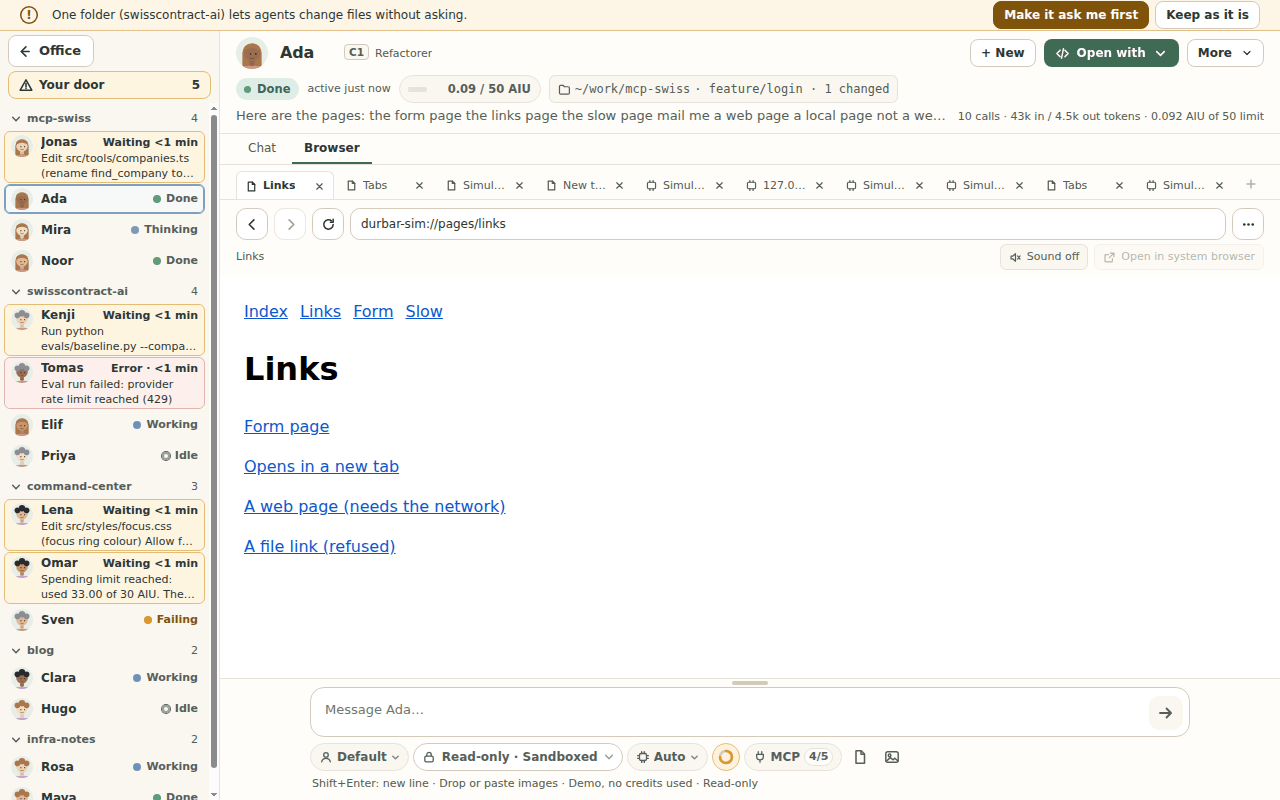
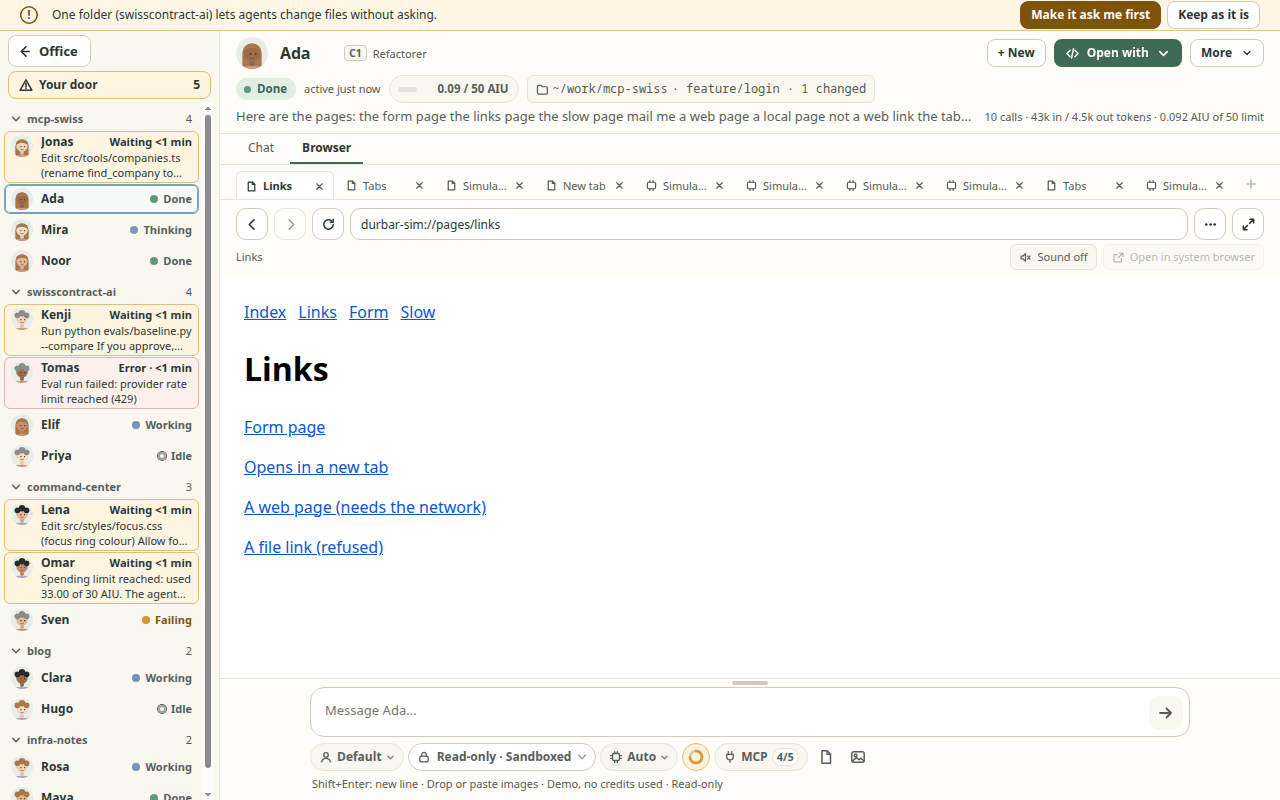
080: expand driver checks localStorage around the first click; docs pictures; tasks ticked (issue #1691)

diff --git a/scripts/check-080-browser-expand.js b/scripts/check-080-browser-expand.js
@@ -120,10 +120,15 @@ module.exports = async (ctx) => {
     await calm();
     await shot(`080-browser-expand-small-${file}.png`);
 
-    // FR-135: Expand fills the chat panel; the panel is the window's content below the notice strips
+    // FR-135: Expand fills the chat panel; the panel is the window's content below the notice strips. FR-137: around this first click
+    // nothing else runs, so any localStorage entry that appears or changes is the big state being remembered
+    const snap = () => js(`(()=>{try{return Object.keys(localStorage).sort().map(k=>k+'='+localStorage.getItem(k));}catch(e){return ['unreadable']}})()`);
+    const before = await snap();
     await js(`document.getElementById('bBig').click()`);
     await soft(async () => (await big()) && !sameRect((await geo()).view, small.view, 1));
     const g1 = await geo();
+    const added = (await snap()).filter((x) => !before.includes(x)).map((x) => x.slice(0, 120));
+    assert.deepStrictEqual(added, [], tag + ': state persisted: Expand writes nothing to localStorage');
     const bottom = g1.answerTop === null ? g1.Hh : g1.answerTop;
     assert.ok(sameRect(g1.pane, { x: g1.panel.x, y: g1.panel.y, w: g1.panel.w, h: bottom - g1.panel.y }, 1), `${tag}: expanded: the pane fills the panel: ${JSON.stringify({ pane: g1.pane, panel: g1.panel, bottom })}`);
     assert.ok(sameRect(g1.panel, { x: 0, y: g1.noticeBottom, w: g1.W, h: g1.Hh - g1.noticeBottom }, 1), `${tag}: expanded: the panel is the window's content below the notice strips: ${JSON.stringify({ panel: g1.panel, W: g1.W, H: g1.Hh, notices: g1.noticeBottom })}`);
@@ -211,12 +216,8 @@ module.exports = async (ctx) => {
     await openChat(idA);
     await toBrowser();
     assert.strictEqual(await big(), false, `${tag}: back in the first chat the browser is small`);
-    const snap = () => js(`(()=>{try{return Object.keys(localStorage).sort().map(k=>k+'='+localStorage.getItem(k));}catch(e){return ['unreadable']}})()`);
-    const before = await snap();
     await js(`document.getElementById('bBig').click()`);
     await wait(big, `${tag}: big before the reload`);
-    const added = (await snap()).filter((x) => !before.includes(x)).map((x) => x.slice(0, 120));
-    assert.deepStrictEqual(added, [], tag + ': state persisted: Expand writes nothing to localStorage');
     await H.load({ w, h, ready: WORLD === 'flat' ? 'fit' : REAL, settle: WORLD === 'flat', focus: true, query: WORLD === 'flat' ? undefined : { officeview: 'real' } });
     await openChat(idA);
     await toBrowser();

diff --git a/scripts/shots-docs.js b/scripts/shots-docs.js
@@ -80,6 +80,7 @@ const DOC_SHOTS = [
   { name: 'shots-074-navigator', files: ['074-navigator-start-1440x900.png'] },
   { name: 'check-browser-tabs', files: ['080-browser-tabs-1440x900.png'] }, // spec 080 FR-122 (US6): the page tab strip with 10 tabs
   { label: 'check-browser-tabs 1280', name: 'check-browser-tabs', env: { BROWSER_TABS_SIZE: '1280x800' }, files: ['080-browser-tabs-1280x800.png'] },
+  { name: 'check-080-browser-expand', files: ['080-browser-expand-small-flat-1440x900.png', '080-browser-expand-big-flat-1440x900.png', '080-browser-expand-small-flat-1280x800.png', '080-browser-expand-big-flat-1280x800.png'] }, // spec 080 FR-134, FR-135 (issue #1691): the browser small and expanded
   { name: 'shots-058-mcp-settings', files: ['058-mcp-settings-1440x900.png'] },
   { name: 'shots-076-orgpolicy', files: ['076-orgpolicy-mode-1440x900.png', '076-orgpolicy-server-1440x900.png', '076-orgpolicy-organization-1440x900.png'] },
   { name: 'shots-058-mcp-health', files: ['058-mcp-health-1440x900.png'] },

diff --git a/docs/features.md b/docs/features.md
@@ -33,7 +33,7 @@ Where each feature works (Flat, Real office, worlds): [feature inventory](featur
 - You see its thinking, tool calls and replies as they stream in, with Markdown and copy buttons. An open tool call shows the whole command (with Copy), how long it took and its output; a Claude Code or Codex edit request has a **Show the change** diff (a Codex request with no known file says "Codex did not say which file").
 - **File edits show up while the agent writes them:** the moment an agent starts changing a file, the chat shows "Editing app.js" with its folder and "+12 −3", and the change itself as a compact diff (12 lines, then **Show all**) that grows as the agent writes it; several files are listed one by one. The line under the chat names what runs now ("Editing app.js · 12s", or "Waiting for your OK" while a permission card waits). An edit that was refused or failed says so ("Could not edit app.js"). Secrets in a diff are masked (by the adapter, then in main with the session's MCP secret values too). Claude Code and Copilot stream the edit, so the row appears before the tool runs (checked on real sessions, Linux); Codex sends the whole change at once, so its row appears when the edit starts ([spec 005](../specs/005-chat-fullscreen-and-agent-strip/spec.md), [screenshot](screenshots/005-edit-expert-1440x900.png)).
 - Attach files and images by picking, dropping or pasting.
-- **A browser in every chat** (spec 080, issue [#556](https://github.com/three-feathers/agent-durbar/issues/556)): each chat has **Chat | Browser** tabs. The Browser tab has an address field, Back, Forward, Reload and Stop, a **Sound** toggle (sound starts off) and **Open in system browser**. Each session gets its own private, in-memory profile: cookies, storage and cache are never shared with another session and are wiped when the session ends, is removed or its folder is removed. A click on an `http` or `https` link in a chat opens it in that session's Browser tab (Ctrl+click, or ⌘+click on a Mac, and the link's right-click menu open it in your usual browser; *Settings > Open chat links in* changes the plain click). Only `http` and `https` addresses open; `file:`, `javascript:`, other schemes and addresses with a user name and password are refused with a reason. **Page tabs** (spec 080 US6, issue [#910](https://github.com/three-feathers/agent-durbar/issues/910)): each session's browser holds up to 10 tabs, in a strip above the address bar ([screenshot](screenshots/080-browser-tabs-1440x900.png), [1280x800](screenshots/080-browser-tabs-1280x800.png)); **+** or Ctrl+T (⌘T) opens one, its **x**, Ctrl+W (⌘W) or Delete in the strip closes one, Ctrl+Tab and Ctrl+Shift+Tab switch. The bar's **⋯** menu has **Open chat links in a new tab** (off by default, one setting for every session): with it on, a chat link opens in a new tab next to the one you are reading, and a link a tab already shows brings that tab to the front instead of opening it twice; the link's right-click menu has **Open in a new tab** either way. A page's own *open in a new tab* links open a tab of the same session too (only `http`/`https` from the page's own site, at most 5 per page load). The session's tabs share its private profile, so a sign-in in one tab holds in the others, and all of it is wiped when the session ends. **Expand** (spec 080 FR-134..FR-139, issue [#1691](https://github.com/three-feathers/agent-durbar/issues/1691)): the last button of the browser bar, **Expand browser**, makes the browser fill the window (the agent list, the chat header and the message box step aside; a draft stays; notices and a question of this session stay in view); the same button, now **Back to small browser**, or **Esc** makes it small again. Esc typed inside the web page stays with the page. It is not remembered: another chat, the Chat tab or a restart starts small. Linux and the simulator only so far; see Known limits.
+- **A browser in every chat** (spec 080, issue [#556](https://github.com/three-feathers/agent-durbar/issues/556)): each chat has **Chat | Browser** tabs. The Browser tab has an address field, Back, Forward, Reload and Stop, a **Sound** toggle (sound starts off) and **Open in system browser**. Each session gets its own private, in-memory profile: cookies, storage and cache are never shared with another session and are wiped when the session ends, is removed or its folder is removed. A click on an `http` or `https` link in a chat opens it in that session's Browser tab (Ctrl+click, or ⌘+click on a Mac, and the link's right-click menu open it in your usual browser; *Settings > Open chat links in* changes the plain click). Only `http` and `https` addresses open; `file:`, `javascript:`, other schemes and addresses with a user name and password are refused with a reason. **Page tabs** (spec 080 US6, issue [#910](https://github.com/three-feathers/agent-durbar/issues/910)): each session's browser holds up to 10 tabs, in a strip above the address bar ([screenshot](screenshots/080-browser-tabs-1440x900.png), [1280x800](screenshots/080-browser-tabs-1280x800.png)); **+** or Ctrl+T (⌘T) opens one, its **x**, Ctrl+W (⌘W) or Delete in the strip closes one, Ctrl+Tab and Ctrl+Shift+Tab switch. The bar's **⋯** menu has **Open chat links in a new tab** (off by default, one setting for every session): with it on, a chat link opens in a new tab next to the one you are reading, and a link a tab already shows brings that tab to the front instead of opening it twice; the link's right-click menu has **Open in a new tab** either way. A page's own *open in a new tab* links open a tab of the same session too (only `http`/`https` from the page's own site, at most 5 per page load). The session's tabs share its private profile, so a sign-in in one tab holds in the others, and all of it is wiped when the session ends. **Expand** (spec 080 FR-134..FR-139, issue [#1691](https://github.com/three-feathers/agent-durbar/issues/1691)): the last button of the browser bar, **Expand browser**, makes the browser fill the window (the agent list, the chat header and the message box step aside; a draft stays; notices and a question of this session stay in view); the same button, now **Back to small browser**, or **Esc** makes it small again. ([small](screenshots/080-browser-expand-small-flat-1440x900.png), [expanded](screenshots/080-browser-expand-big-flat-1440x900.png); at 1280x800: [small](screenshots/080-browser-expand-small-flat-1280x800.png), [expanded](screenshots/080-browser-expand-big-flat-1280x800.png)) Esc typed inside the web page stays with the page. It is not remembered: another chat, the Chat tab or a restart starts small. Linux and the simulator only so far; see Known limits.
 - Questions an agent asks you appear as a card with its choices, an "Other" answer and Skip. The whole question, every choice and its description are shown in full; Enter in the "Other" box sends your answer (Shift+Enter adds a line). While a question waits and its card is scrolled out of view, the bar above the message box shows it; a short one can be answered right there (its choices, an "Other" box and Skip), a longer one has **Show question**. Several context compactions in a row are one line that counts them ("Context compacted 4 times · last 10:21").
 - **Needs you:** one inbox of every agent waiting for you, oldest first with how long each has waited. Open it with **I**, **Ctrl+Shift+A** (also from a text box) or **Ctrl+A** when the cursor is not in a text box or the chat log (there Ctrl+A still selects all). While Durbar is in the background the window title ("(3) Agent Durbar"), the app icon and one notification tell you (Settings > Notifications turns it off; it shows only the agent's name and a short summary). In a waiting chat, **Alt+A** allows once, **Alt+S** allows for the session, **Alt+D** denies and **Alt+N** goes to the next agent (a held key answers once, never down the queue; a spending limit is answered with its buttons, never a letter key); **?** lists every shortcut.
 - **Auto-follow work** (Settings, off by default): after a message is accepted, the window returns to the office with that agent's desk marked, then opens its chat (focus on the title; it never answers or approves for you) when the agent finishes, asks, errors or reaches its limit. It waits while you type, a dialog or menu is open, or you chose another agent; a reply that comes while its chat is on screen is seen there and never opens anything later, and a new message to an agent replaces its completion still waiting. A strip under the top bar has Previous and Next (**[** and **]**) over the Needs you queue then unread replies, with "2 of 3", and Pause. Before each automatic move, a full-screen notice says where it is taking you and why ("Priya is working on this. Taking you to the office.", "Priya finished. See if it is OK. Opening its chat.") and counts down 3 seconds; **Stay here** / **Stay in the office** or **Esc** cancels the move. With reduced motion, or Motion off in Settings, nothing in it moves; the text and the number stay. It looks the same in Open office and in every Real office world. Spec 052 FR-182..FR-190 ([1440x900](screenshots/052-auto-follow-queue-1440x900.png), [1280x800](screenshots/052-auto-follow-queue-1280x800.png)), FR-238..FR-241 (the notice), FR-242.

diff --git a/specs/080-session-browser/tasks.md b/specs/080-session-browser/tasks.md
@@ -294,14 +294,15 @@ Owner decisions (Vikram, 2026-10-31 05:17 UTC): *Open chat links in a new tab* i
 
 Owner request (Vikram, 2026-11-13): see the browser big, make it small before going back to the chat. Renderer only; no main-process change.
 
-- [ ] T080 [US1] Pure model first: `bigModel(on)` in `src/renderer/browserpane.js` (name, tooltip, icon, announcement) and `#bBig` in `paneHTML`, tested in `scripts/test-browserpane.ts`. [FR-134]
+- [x] T080 [US1] Pure model first: `bigModel(on)` in `src/renderer/browserpane.js` (name, tooltip, icon, announcement) and `#bBig` in `paneHTML`, tested in `scripts/test-browserpane.ts`. [FR-134]
   - AC1: small: *Expand browser*; big: *Back to small browser*, tooltip with *(Esc)*; SVG icons; no `aria-pressed`; the button is the last child of the bar's toolbar (test).
-- [ ] T081 [US1] The big state: `setBig`, `expanded`, `restore` in `browserpane.js`; `body.browser-big` rules in `styles.css`; the Escape line in `app.js`; ends on Chat tab, `hide`, another chat; kept on a rebuild of the same chat; memory only. [FR-135, FR-136, FR-137, FR-138, FR-139]
+- [x] T081 [US1] The big state: `setBig`, `expanded`, `restore` in `browserpane.js`; `body.browser-big` rules in `styles.css`; the Escape line in `app.js`; ends on Chat tab, `hide`, another chat; kept on a rebuild of the same chat; memory only. [FR-135, FR-136, FR-137, FR-138, FR-139]
   - AC1: the pane fills `#panel` (window content with no notice and no answer bar) within 1 px; the view's bounds equal `#bView` within 2 px; restore gives back the small rectangle within 1 px.
   - AC2: Escape on the button, the bar, the address field (not typing) and the body restores and focuses *Expand browser*; Escape in the page reaches the page and the browser stays big; a Durbar dialog over the big page closes first with Escape, the browser stays big.
   - AC3: Chat tab, another chat, closing the chat and a reload all end it; nothing in `localStorage`.
-- [ ] T082 [US1] Driver `scripts/check-080-browser-expand.js`, registered in `scripts/ui-suite.js` for Flat, Real office and the Retro arcade, at 1440x900 and 1280x800: AC1-AC3 of T081, an overlay over the big page (FR-008), text at least 10.5 px, no page or panel scroll; pictures small and big. Mutants: *expand does not fill*, *restore forgets*, *focus not returned*, *Escape steals from the page*, *state persisted*, each failing at its labelled assertion (the PR lists them). [FR-134..FR-139]
-- [ ] T083 Docs: `docs/features.md`, `docs/feature-inventory.md` (the Browser tab row), a `changelog.d/080-1691-browser-expand.md` fragment, the spec's tags, the `specs-index` note. [FR-134..FR-139]
+- [x] T082 [US1] Driver `scripts/check-080-browser-expand.js`, registered in `scripts/ui-suite.js` for Flat, Real office and the Retro arcade, at 1440x900 and 1280x800: AC1-AC3 of T081, an overlay over the big page (FR-008), text at least 10.5 px, no page or panel scroll; pictures small and big. Mutants: *expand does not fill*, *restore forgets*, *focus not returned*, *Escape steals from the page*, *state persisted*, each failing at its labelled assertion (the PR lists them). [FR-134..FR-139]
+- [x] T083 Docs: `docs/features.md`, `docs/feature-inventory.md` (the Browser tab row), a `changelog.d/080-1691-browser-expand.md` fragment, the spec's tags, the `specs-index` note. [FR-134..FR-139]
+  - Done 2026-11-13 (T080-T083): `test:` `test:browserpane` (T080 AC1); `sim:` `check-080-browser-expand` in Flat, the Photo office and the Retro arcade at 1440x900 and 1280x800 (T081 AC1-AC3, T082); the five named mutants each failed at their labelled assertion at 1280x800 in Flat (the PR lists them); docs pictures `080-browser-expand-{small,big}-flat-{1440x900,1280x800}.png` through `shots:docs`, and `080-browser-tabs-*.png` retaken (the bar has the new button). Not run on macOS or Windows by hand; DPR 2 not checked.
 
 **Checkpoint**: the browser can be made big and small again; nothing about the page changes.
 

diff --git a/specs/080-session-browser/spec.md b/specs/080-session-browser/spec.md
@@ -4,7 +4,7 @@
 group: 046
 title: Session browser (issue #556): a Browser tab per session with its own in-memory profile, wiped at session end; chat links open there; later the agent drives it through a per-session durbar-browser server (no debugging port), gated per mode; per-folder login opt-in last
 status: building
-note: Browser tab, chat links and page tabs (#910) built on the simulator; 28 tasks open
+note: Browser tab, chat links, page tabs (#910) and Expand (#1691) built on the simulator; 28 tasks open
 -->
 
 **Feature Branch**: `080-session-browser` (touches 005 chat panel, 008 fuses (Phase 3), 045 window hardening, 003/018 permission broker, 041 Durbar MCP, 072 per-session server pattern, 058/069 MCP lists, 001 office desks, 010 simulator)
@@ -790,6 +790,8 @@ Spec 084 (contacts, issue 701) opens `https://teams.microsoft.com/l/chat/0/0?`, 
 - **FR-137** **Not remembered.** The big state lives only in the window's memory, for the chat that is open. It ends (the browser is small again) when the user picks the Chat tab, closes the chat, opens another chat (the rail, a shortcut, a hidden session's dialog bringing its chat forward, FR-025d), when the session's browser goes, and on a reload or restart. A rebuild of the same chat (a rename) keeps it. Nothing is written to settings, `localStorage` or disk.
 - **FR-138** **The page is the same page.** Expanding changes only the view's bounds through the existing checked `browser:bounds` path: the same view, partition, `webPreferences`, permission handlers (HTML fullscreen stays refused, FR-025), navigation rules, sound state (FR-012, no autoplay change) and tabs. FR-008 holds as before: a Durbar menu, dialog, toast or list over the big page takes the view off and shows the still picture until it closes.
 - **FR-139** **Looks and sizes.** Theme tokens only (every world and look: Flat, Photo office, Retro arcade, Cave, user themes); text at least 10.5 px; no page or panel scroll at 1440x900 and 1280x800. On macOS, while no notice strip is above it, the big pane's top row (the page tabs) keeps clear of the window buttons (78 px, as `.notice-strip` does, not in native full screen) and is the window's drag region, with its buttons excluded.
+
+- `[IMPLEMENTED]` FR-134..FR-139 on the simulator (`sim:` `check-080-browser-expand`, Flat, Photo office and Retro arcade, 1440x900 and 1280x800; `test:` `test:browserpane`). Pictures: [small](../../docs/screenshots/080-browser-expand-small-flat-1440x900.png), [expanded](../../docs/screenshots/080-browser-expand-big-flat-1440x900.png), [expanded, Photo office](../../docs/screenshots/080-browser-expand-big-photo-1440x900.png), [expanded, Retro arcade](../../docs/screenshots/080-browser-expand-big-retro-1440x900.png).
 
 **Mutants a driver must kill** (`scripts/check-080-browser-expand.js`, each by its labelled assertion): *expand does not fill* (the CSS rule or the class dropped), *restore forgets* (the class kept after Restore), *focus not returned* (no focus move on restore), *Escape steals from the page* (main's tab-key table also takes Escape), *state persisted* (the state written to `localStorage` and read on mount).
 
